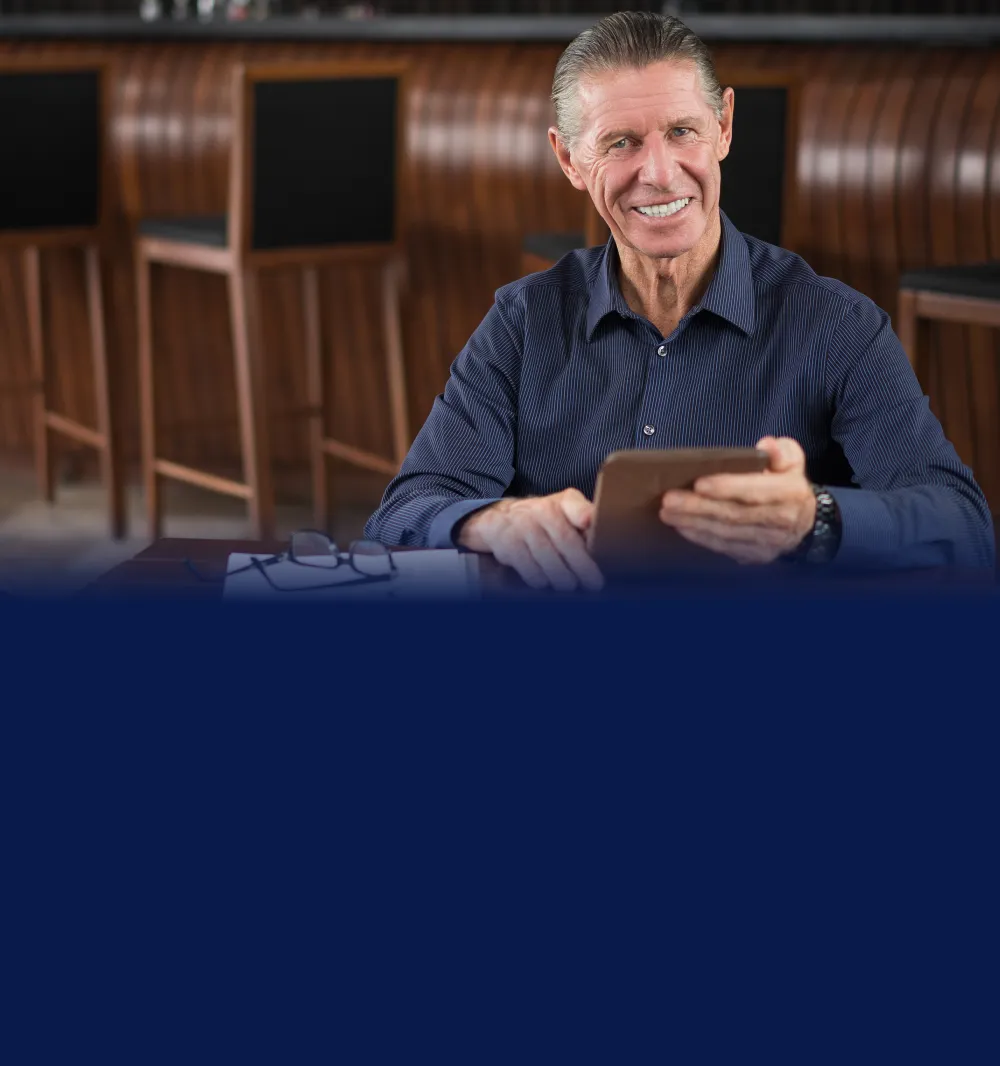
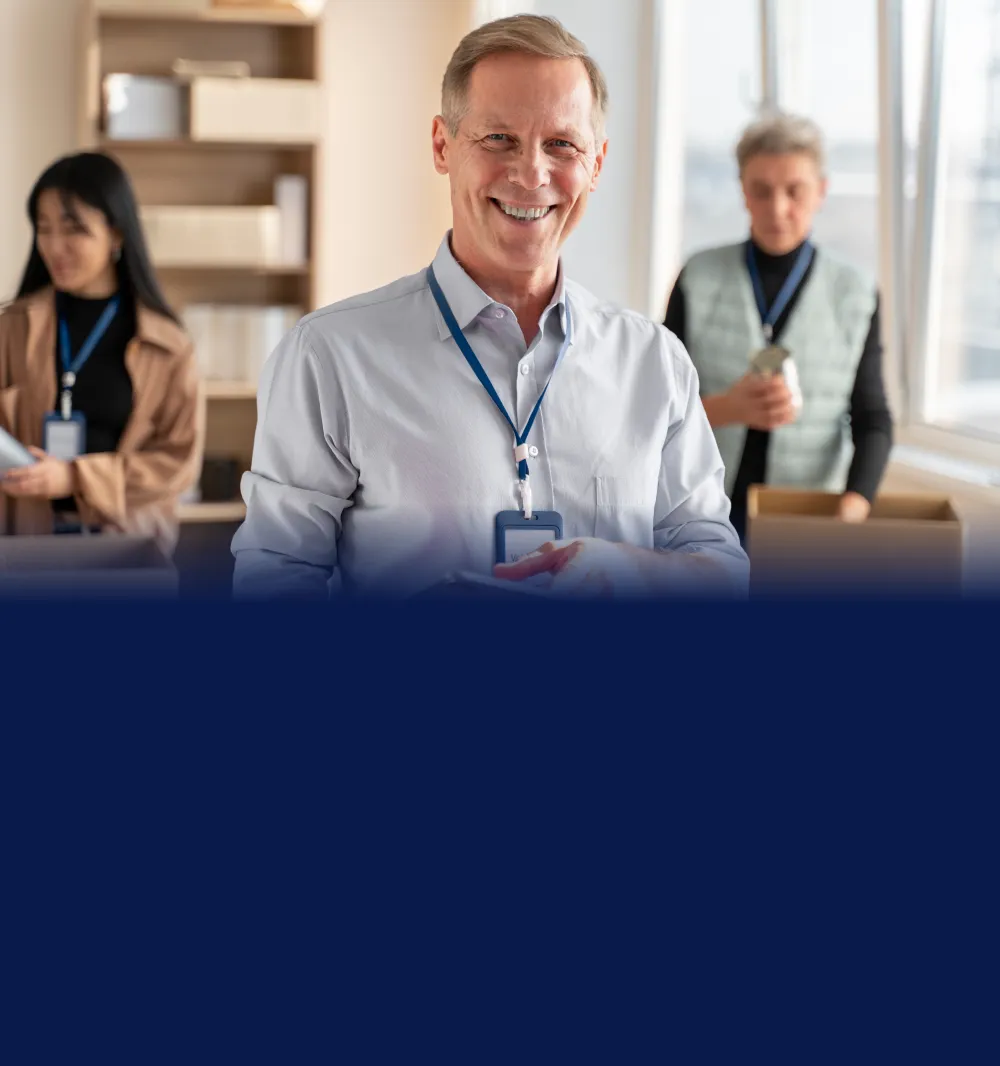
mudando copy e imagem

diff --git a/lp-seguro-prestamista/index.html b/lp-seguro-prestamista/index.html
@@ -63,9 +63,9 @@
         <div class="hero__content">
             <div class="content-text">
                 <h2>Seguro Prestamista</h2>
-                <h1>Estão descontando do seu salário algo que você nunca contratou?</h1>
+                <h1>Servidor público, estão descontando do seu salário algo que você nunca contratou?</h1>
                 <p>
-                 Identifique e recupere os valores do seguro prestamista cobrado sem sua autorização. Atendimento especializado e sem burocracia.
+                  Milhares de servidores estão descobrindo cobranças indevidas direto na folha, e recuperando valores que nem imaginavam que perderam             
                 </p>
                 <form action="https://naocontratei-homolog.devlivery.com.br/lead/lp/create" method="post" class="lead-form" x-data>
                   <div class="lead-form__input-container">
